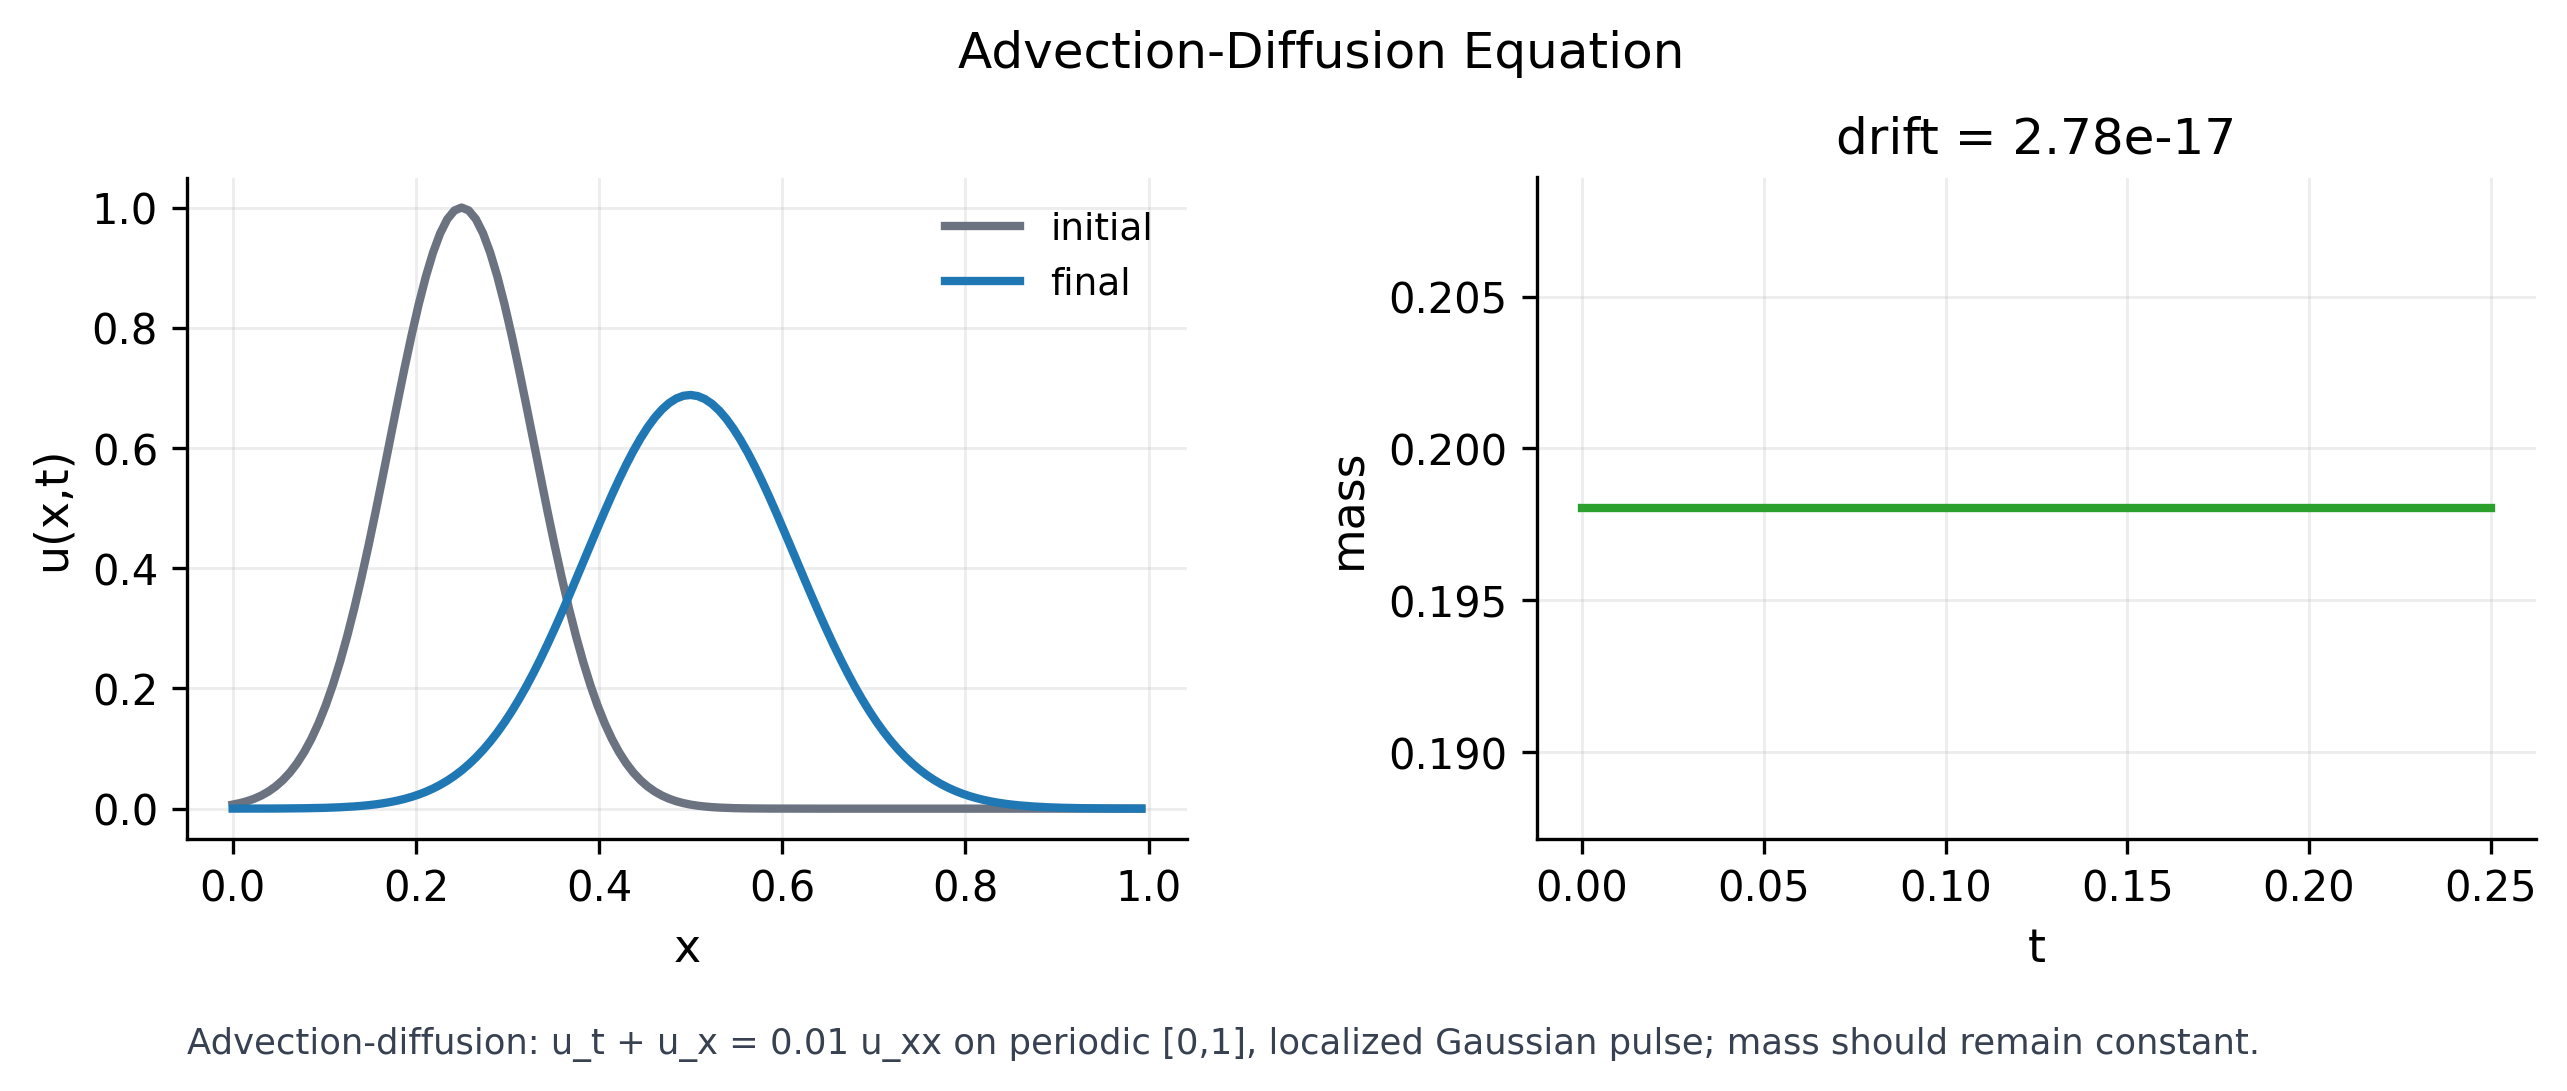
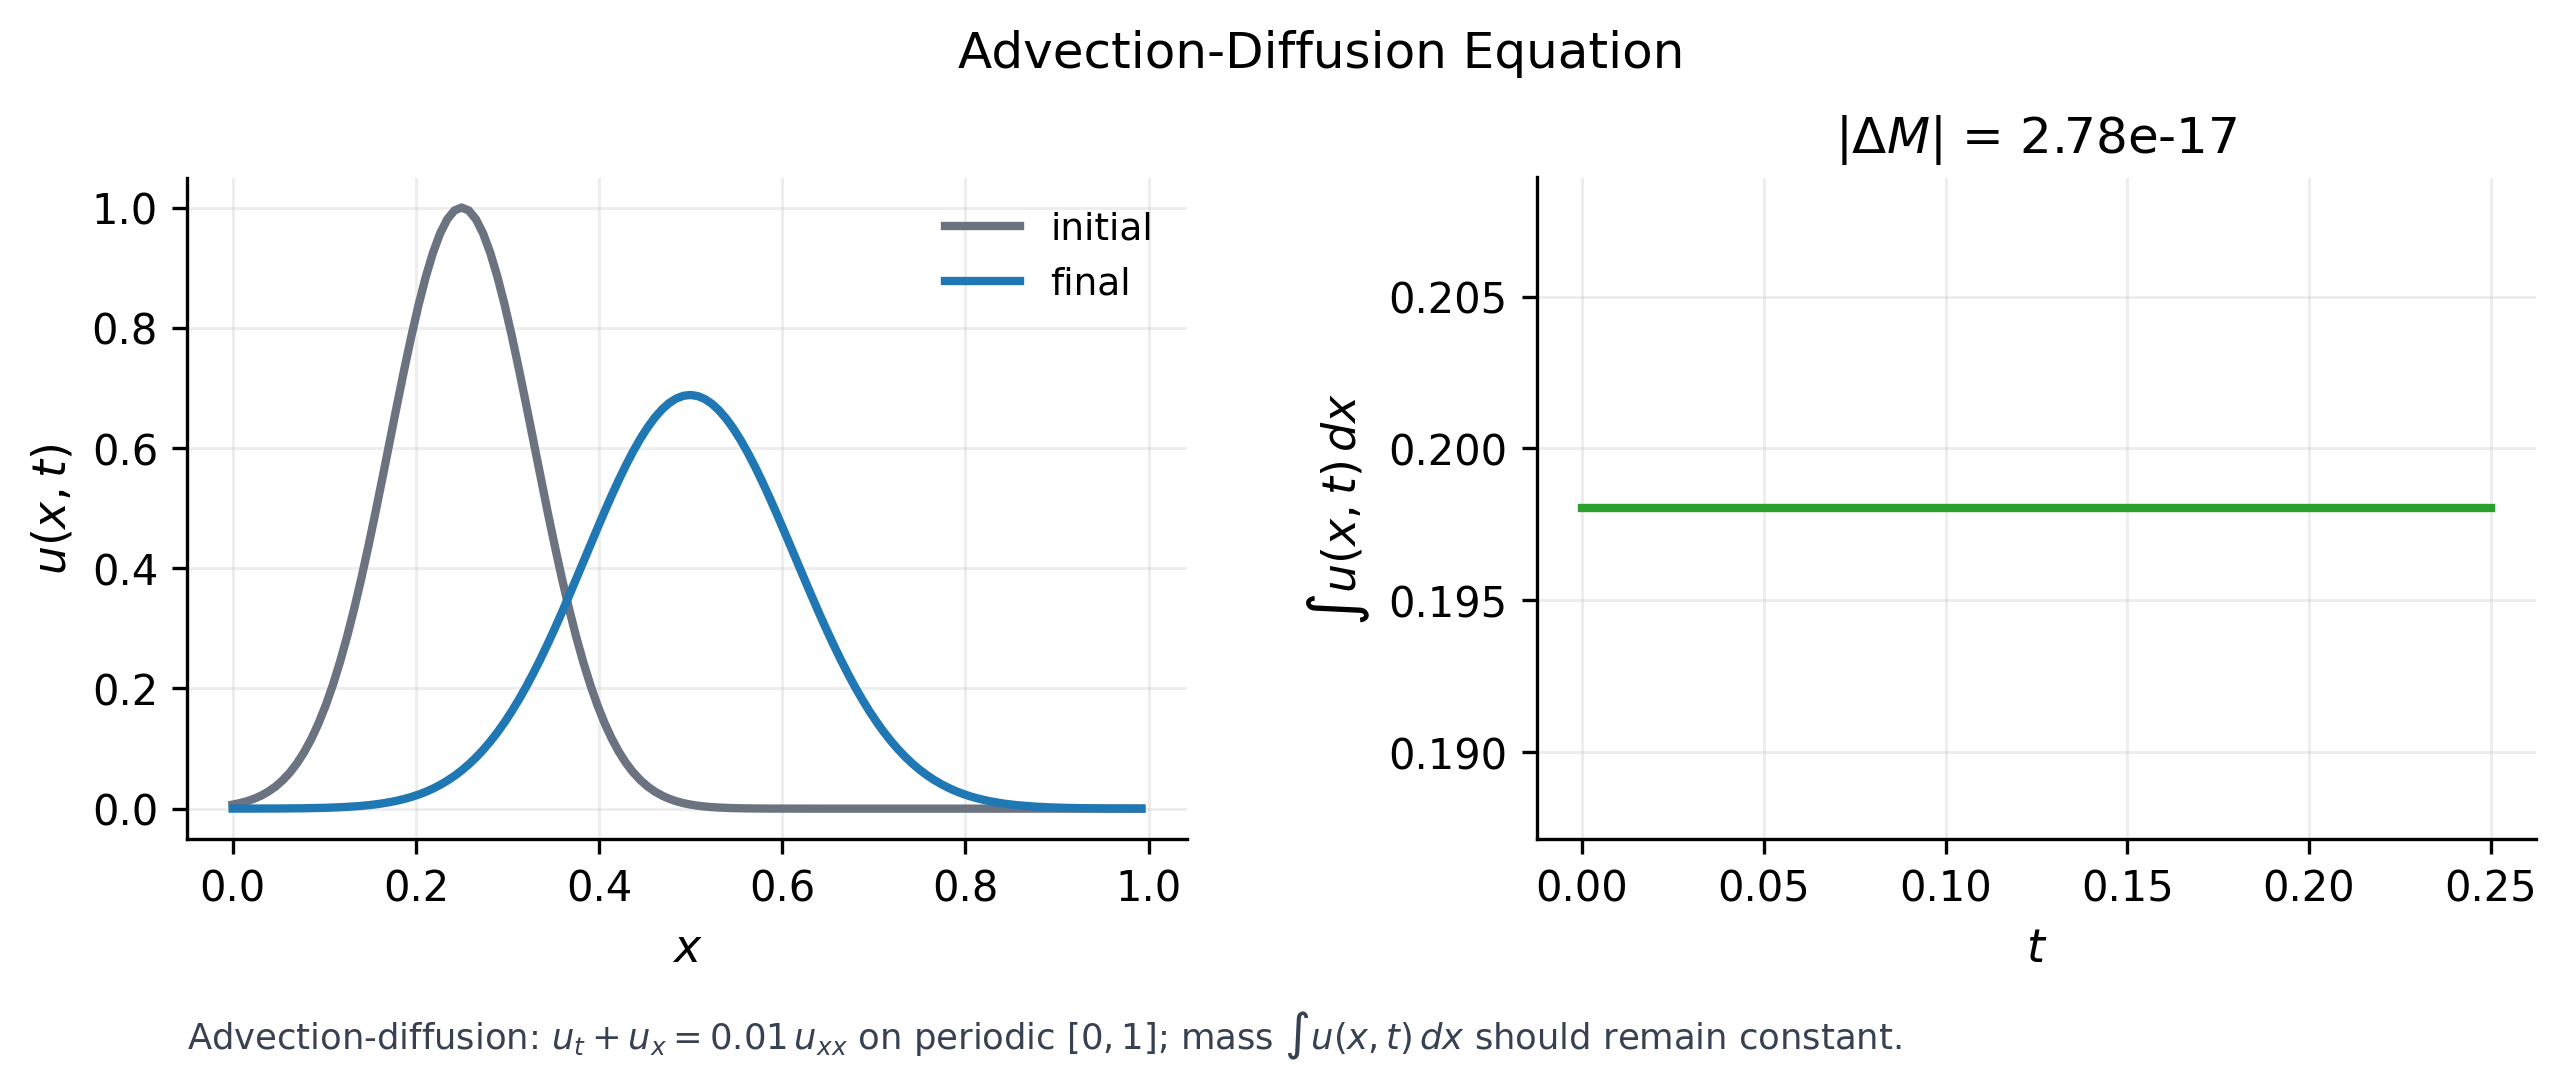
Render public math as LaTeX

diff --git a/python/examples/canonical_cases.py b/python/examples/canonical_cases.py
@@ -132,14 +132,14 @@ def plot_heat(output: Path, points: int = 128, formats: tuple[str, ...] = ("png"
     ax.plot(result.x, result.u[0], color=COLORS["muted"], label="initial")
     ax.plot(result.x, result.u[-1], color=COLORS["primary"], label="numerical")
     ax.plot(result.x, exact, "--", color=COLORS["secondary"], label="exact")
-    ax.set_xlabel("x")
-    ax.set_ylabel("u(x,t)")
+    ax.set_xlabel(r"$x$")
+    ax.set_ylabel(r"$u(x,t)$")
     ax.legend(frameon=False)
-    caption(ax, "Heat equation: u_t = 0.05 u_xx on periodic [0, 2pi], initial state sin(x), exact decay exp(-nu t)sin(x).")
+    caption(ax, r"Heat equation: $u_t=0.05\,u_{xx}$ on periodic $[0,2\pi]$, $u(x,0)=\sin x$, exact decay $e^{-\nu t}\sin x$.")
     err_ax.plot(result.x, error, color=COLORS["accent"])
-    err_ax.set_xlabel("x")
-    err_ax.set_ylabel("numerical - exact")
-    err_ax.set_title(f"L2 = {l2_error(result.u[-1], exact, result.x[1] - result.x[0]):.2e}")
+    err_ax.set_xlabel(r"$x$")
+    err_ax.set_ylabel(r"$u_{\mathrm{num}}-u_{\mathrm{exact}}$")
+    err_ax.set_title(rf"$L^2$ error = {l2_error(result.u[-1], exact, result.x[1] - result.x[0]):.2e}")
     fig.suptitle("Heat Equation", y=0.95)
     return save_figure(fig, output, formats)
 
@@ -152,14 +152,14 @@ def plot_advection_diffusion(output: Path, points: int = 128, formats: tuple[str
     fig, (ax, mass_ax) = two_panel_figure()
     ax.plot(result.x, result.u[0], color=COLORS["muted"], label="initial")
     ax.plot(result.x, result.u[-1], color=COLORS["primary"], label="final")
-    ax.set_xlabel("x")
-    ax.set_ylabel("u(x,t)")
+    ax.set_xlabel(r"$x$")
+    ax.set_ylabel(r"$u(x,t)$")
     ax.legend(frameon=False)
-    caption(ax, "Advection-diffusion: u_t + u_x = 0.01 u_xx on periodic [0,1], localized Gaussian pulse; mass should remain constant.")
+    caption(ax, r"Advection-diffusion: $u_t+u_x=0.01\,u_{xx}$ on periodic $[0,1]$; mass $\int u(x,t)\,dx$ should remain constant.")
     mass_ax.plot(result.t, masses, color=COLORS["accent"])
-    mass_ax.set_xlabel("t")
-    mass_ax.set_ylabel("mass")
-    mass_ax.set_title(f"drift = {abs(masses[-1] - masses[0]):.2e}")
+    mass_ax.set_xlabel(r"$t$")
+    mass_ax.set_ylabel(r"$\int u(x,t)\,dx$")
+    mass_ax.set_title(rf"$|\Delta M|$ = {abs(masses[-1] - masses[0]):.2e}")
     fig.suptitle("Advection-Diffusion Equation", y=0.95)
     return save_figure(fig, output, formats)
 
@@ -170,14 +170,14 @@ def plot_poisson(output: Path, points: int = 128, formats: tuple[str, ...] = ("p
     fig, (ax, err_ax) = two_panel_figure()
     ax.plot(grid.x, numerical, color=COLORS["primary"], label="numerical")
     ax.plot(grid.x, exact, "--", color=COLORS["secondary"], label="exact")
-    ax.set_xlabel("x")
-    ax.set_ylabel("u(x)")
+    ax.set_xlabel(r"$x$")
+    ax.set_ylabel(r"$u(x)$")
     ax.legend(frameon=False)
-    caption(ax, "Poisson equation: u_xx = -pi^2 sin(pi x), x in [0,1], u(0)=u(1)=0; exact solution is sin(pi x).")
+    caption(ax, r"Poisson equation: $u_{xx}=-\pi^2\sin(\pi x)$, $x\in[0,1]$, $u(0)=u(1)=0$; exact solution is $\sin(\pi x)$.")
     err_ax.plot(grid.x, numerical - exact, color=COLORS["accent"])
-    err_ax.set_xlabel("x")
-    err_ax.set_ylabel("numerical - exact")
-    err_ax.set_title(f"L2 = {l2_error(numerical, exact, grid.dx):.2e}")
+    err_ax.set_xlabel(r"$x$")
+    err_ax.set_ylabel(r"$u_{\mathrm{num}}-u_{\mathrm{exact}}$")
+    err_ax.set_title(rf"$L^2$ error = {l2_error(numerical, exact, grid.dx):.2e}")
     fig.suptitle("Poisson Equation", y=0.95)
     return save_figure(fig, output, formats)
 

diff --git a/README.md b/README.md
@@ -48,19 +48,19 @@ These cases show what each numerical method should preserve or approximate.
 
 ![Heat equation case](docs/figures/heat.png)
 
-The numerical solution is compared with the analytic sine-mode decay. The error panel should remain small and structured.
+The case solves $u_t=\nu u_{xx}$ with $\nu=0.05$ on periodic $x\in[0,2\pi]$ and $u(x,0)=\sin x$. The exact solution is $u(x,t)=e^{-\nu t}\sin x$.
 
 ### Poisson: boundary-value problem
 
 ![Poisson equation case](docs/figures/poisson.png)
 
-The solver recovers the exact solution under Dirichlet boundary conditions. The right panel shows pointwise numerical error.
+The case solves $u_{xx}=-\pi^2\sin(\pi x)$ on $x\in[0,1]$ with $u(0)=u(1)=0$. The exact solution is $u(x)=\sin(\pi x)$, and the right panel shows numerical error.
 
 ### Advection-Diffusion: transport plus smoothing
 
 ![Advection-diffusion case](docs/figures/advection_diffusion.png)
 
-The pulse moves and broadens. The mass panel checks whether the discretization preserves the total amount of the transported quantity.
+The case solves $u_t+u_x=\nu u_{xx}$ with $\nu=0.01$ on periodic $x\in[0,1]$. The pulse moves and broadens; the mass panel checks conservation of $\int u(x,t)\,dx$.
 
 ## Run Examples
 